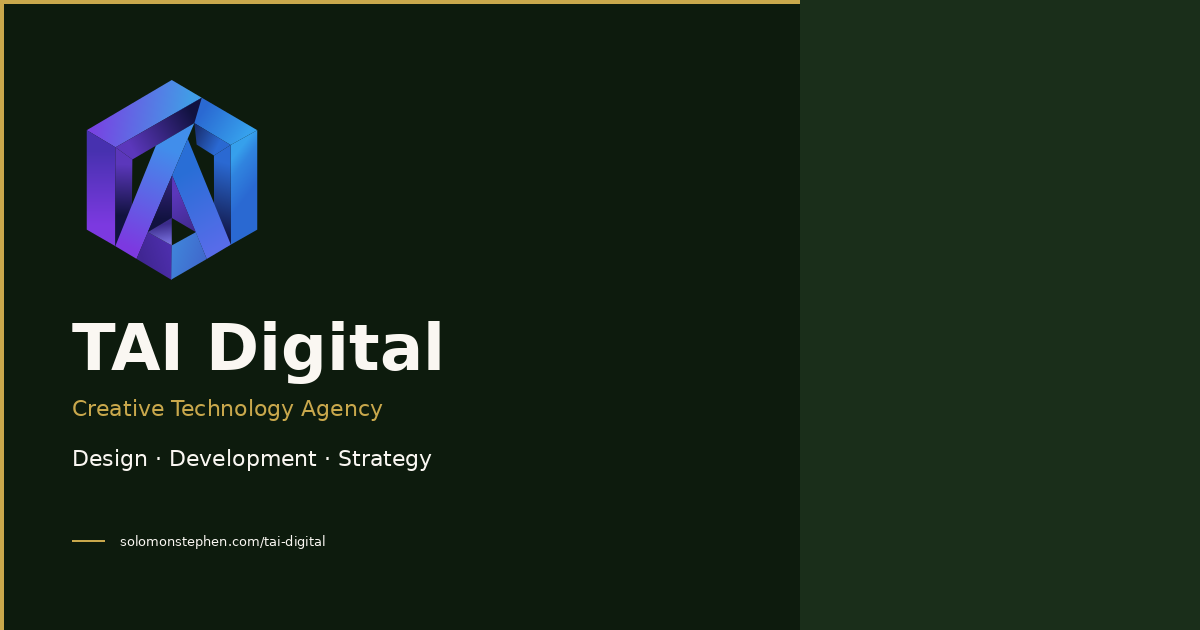
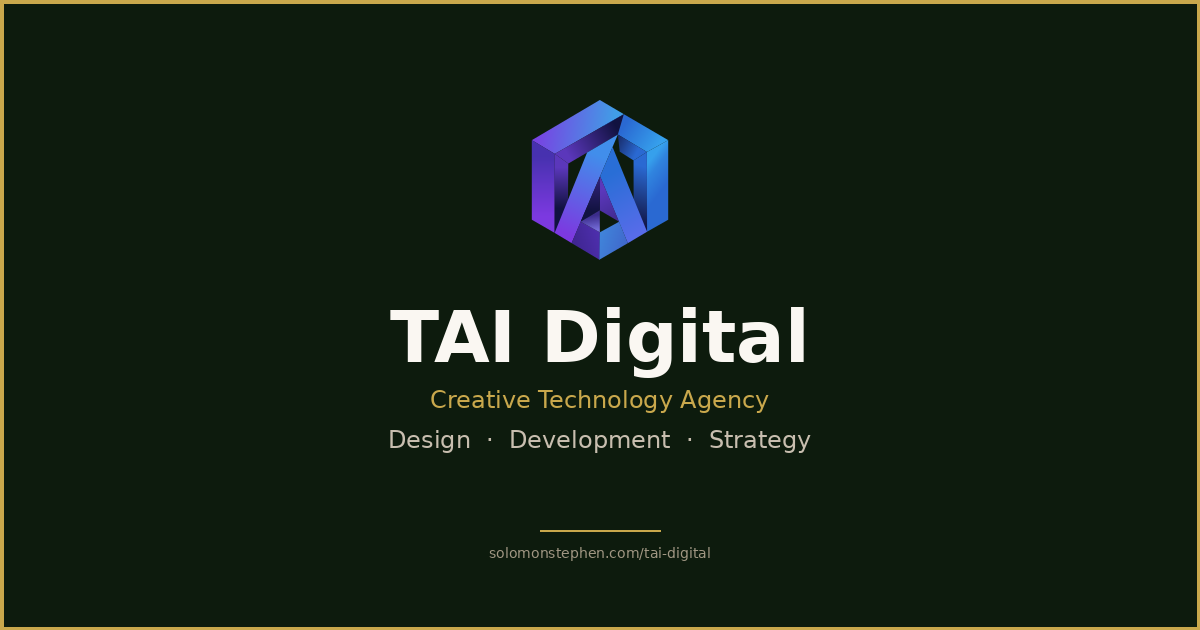
fix: proper 1200x630 OG images for home, about, and TAI Digital
- og-image.png: centered crop of solomon-green-suit-hero.png
- about-og.png: centered crop of solomon-photo2.png (new file)
- tai-og.png: centered branded card with TAI logo
- about metadata: points to about-og.png

diff --git a/app/about/metadata.ts b/app/about/metadata.ts
@@ -8,13 +8,13 @@ export const metadata: Metadata = {
     url: "https://solomonstephen.com/about",
     title: "About Solomon Stephen",
     description: "Gospel minister, worship leader, music producer, author, and founder of TWN Studios — Lagos, Nigeria.",
-    images: [{ url: 'https://solomonstephen.com/images/solomon-photo.png', width: 1200, height: 630, alt: 'Solomon Stephen — Gospel Minister' }]
+    images: [{ url: 'https://solomonstephen.com/images/about-og.png', width: 1200, height: 630, alt: 'Solomon Stephen — Gospel Minister' }]
   },
   twitter: {
     card: "summary_large_image",
     title: "About Solomon Stephen",
     description: "Gospel minister, worship leader, music producer, author, and founder of TWN Studios — Lagos, Nigeria.",
-    images: ["https://solomonstephen.com/images/solomon-photo.png"],
+    images: ["https://solomonstephen.com/images/about-og.png"],
     creator: "@theasaphmedia",
   },
 }
